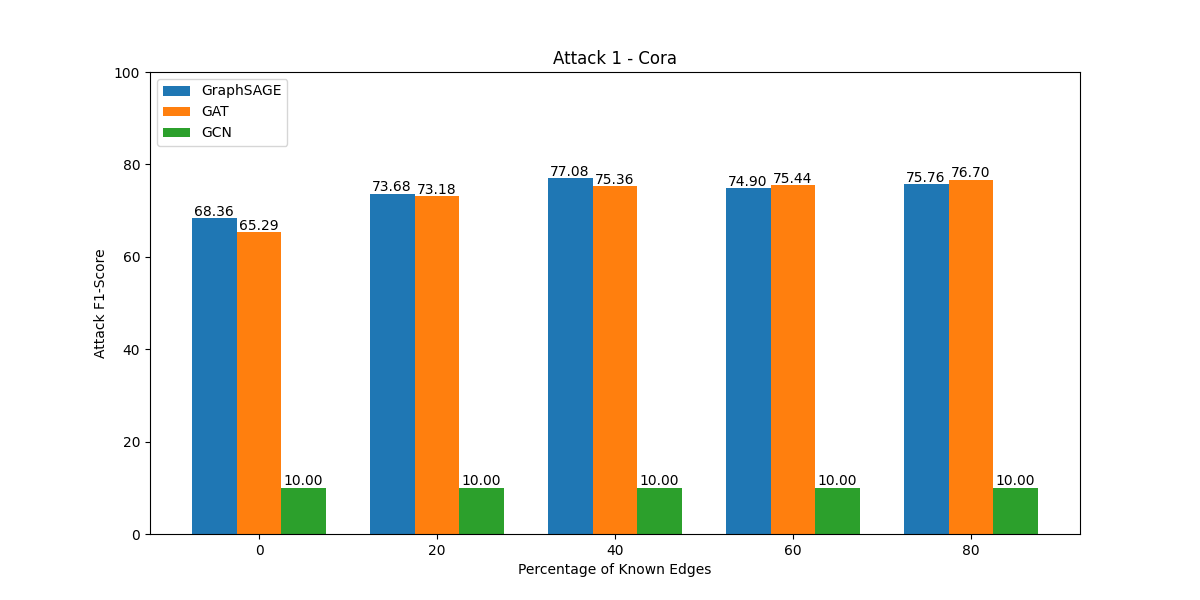
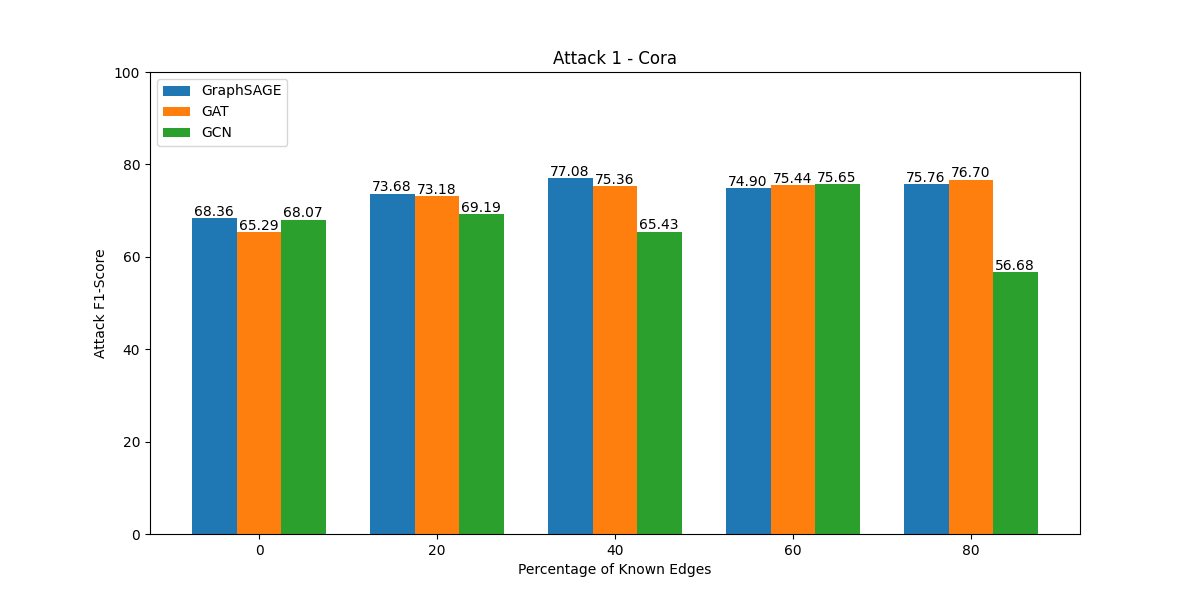
gcn cora

diff --git a/Experiment/results/plot.py b/Experiment/results/plot.py
@@ -10,7 +10,7 @@ def a1_cora():
 
     graphsage = [68.36, 73.68, 77.08, 74.90, 75.76]
     gat = [65.29, 73.18, 75.36, 75.44, 76.70]
-    gcn = [10.00, 10.00, 10.00, 10.00, 10.00]
+    gcn = [68.07, 69.19, 65.43, 75.65, 56.68]
 
     X_axis = np.arange(len(bartypes))
 
@@ -122,7 +122,7 @@ def a2_cora():
 
     graphsage = [72.06, 73.29, 80.00, 82.59, 80.24]
     gat = [78.06, 82.36, 82.93, 87.46, 87.92]
-    gcn = [10.00, 10.00, 10.00, 10.00, 10.00]
+    gcn = [65.41, 67.21, 72.80, 69.29, 74.33]
 
     X_axis = np.arange(len(bartypes))
 
